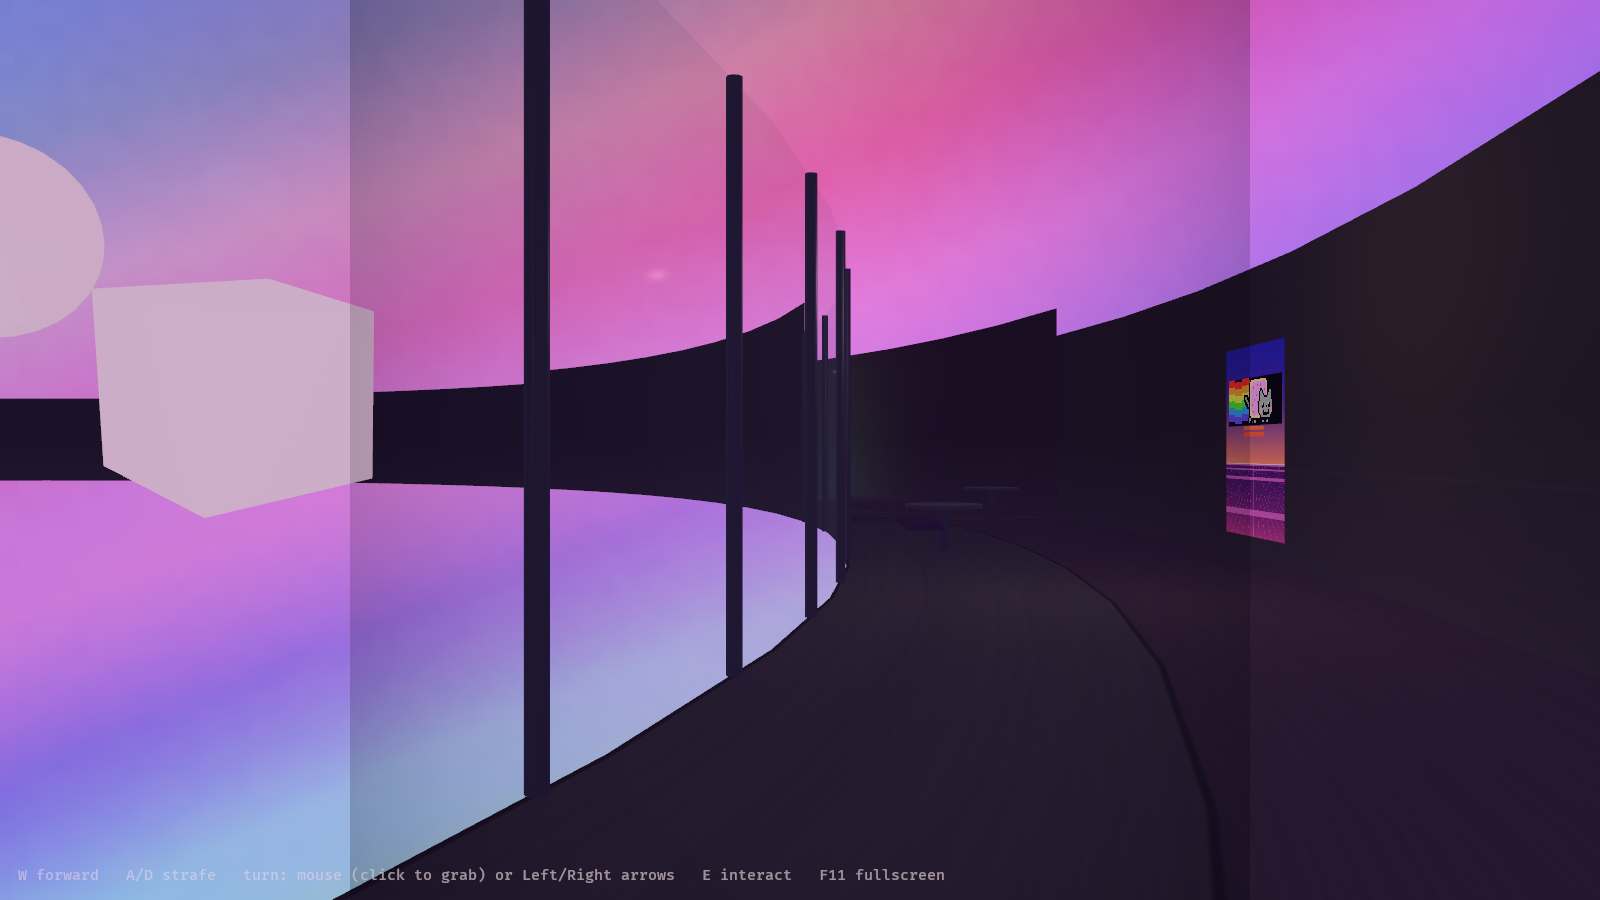
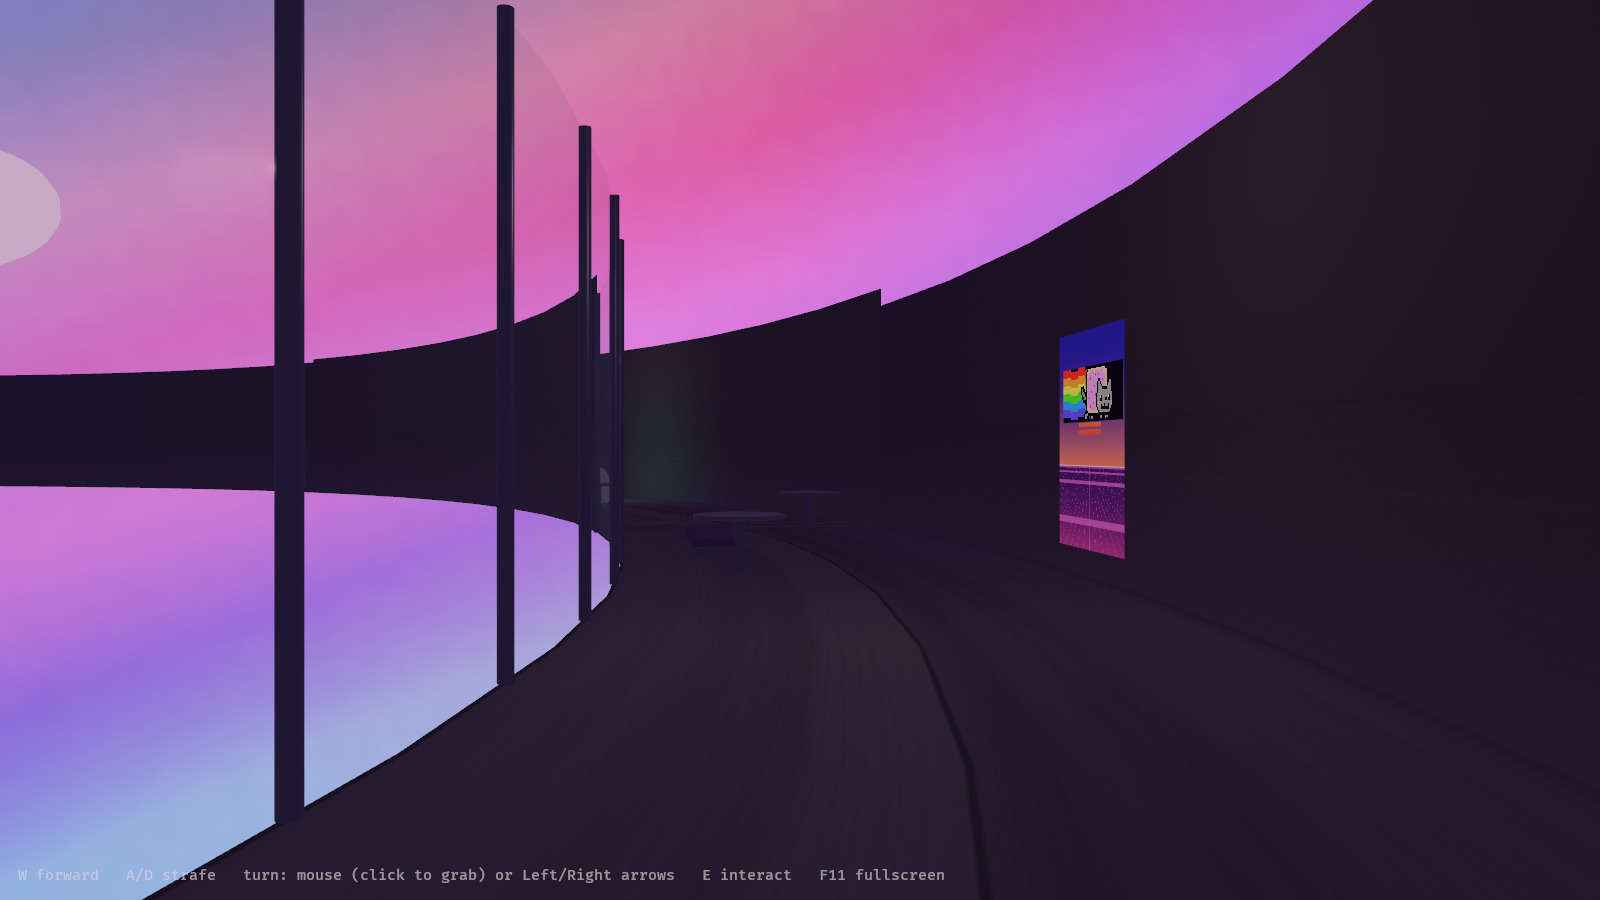
remove vignette overlay entirely
Matt still saw a 'black frame in the middle' after the aspect fix:
with corners flattened, the remaining ~17% edge-midpoint darkness of
the full-screen gradient overlay is exactly that frame. It was purely
decorative; fog and ambient already carry the mood. Deleted the
ImageNode overlay, its resize-fit system, and texturegen::vignette
with its tests. README screenshots retaken without it.

diff --git a/src/app.rs b/src/app.rs
@@ -439,11 +439,10 @@ fn setup_dream(
         seed,
         sky.as_deref(),
     );
-    spawn_ui_root(&mut commands, &mut images);
+    spawn_ui_root(&mut commands);
 }
 
-fn spawn_ui_root(commands: &mut Commands, images: &mut ResMut<Assets<Image>>) {
-    let vig = world::tex_rgba(images, 256, 256, texturegen::vignette(16.0 / 9.0), true);
+fn spawn_ui_root(commands: &mut Commands) {
     commands
         .spawn(Node {
             position_type: PositionType::Absolute,
@@ -453,21 +452,6 @@ fn spawn_ui_root(commands: &mut Commands, images: &mut ResMut<Assets<Image>>) {
         })
         .insert(Pickable::IGNORE)
         .with_children(|ui| {
-            // vignette overlay
-            ui.spawn((
-                ImageNode {
-                    image: vig,
-                    ..default()
-                },
-                VignetteNode,
-                Node {
-                    position_type: PositionType::Absolute,
-                    width: Val::Percent(100.0),
-                    height: Val::Percent(100.0),
-                    ..default()
-                },
-                FocusPolicy::Pass,
-            ));
             // black fade overlay
             ui.spawn((
                 Name::new("fade"),
@@ -549,30 +533,6 @@ fn spawn_ui_root(commands: &mut Commands, images: &mut ResMut<Assets<Image>>) {
         });
 }
 
-// keep the vignette circular on screen: regenerate its gradient texture
-// with the current window aspect whenever the window resizes, so no
-// elliptical iso-darkness arc can read as a panel edge in the FOV
-fn vignette_fit(
-    windows: Query<&Window, With<PrimaryWindow>>,
-    mut images: ResMut<Assets<Image>>,
-    mut vig: Query<&mut ImageNode, With<VignetteNode>>,
-    mut last: Local<f32>,
-) {
-    let Ok(win) = windows.single() else { return };
-    let h = win.height();
-    if h <= 1.0 {
-        return;
-    }
-    let aspect = win.width() / h;
-    if (aspect - *last).abs() < 0.01 {
-        return;
-    }
-    *last = aspect;
-    let tex = world::tex_rgba(&mut images, 256, 256, texturegen::vignette(aspect), true);
-    for mut node in &mut vig {
-        node.image = tex.clone();
-    }
-}
 
 /// build/rebuild the world when NewDream is pending
 fn build_pending(
@@ -1136,8 +1096,6 @@ fn fade_apply(run: Res<Run>, mut q: Query<&mut BackgroundColor, With<FadeNode>>)
 
 #[derive(Component)]
 struct FadeNode;
-#[derive(Component)]
-struct VignetteNode;
 
 // ---------------------------------------------------------------- mutation ----
 
@@ -1592,7 +1550,6 @@ pub fn build(app: &mut App) {
     app.add_systems(Update, cursor_ctrl.run_if(resource_exists::<Run>));
     app.add_systems(Update, fullscreen_toggle.run_if(resource_exists::<Run>));
     app.add_systems(Update, start_maximized.run_if(resource_exists::<Run>));
-    app.add_systems(Update, vignette_fit.run_if(resource_exists::<Run>));
     app.add_systems(OnEnter(GS::Ended), (capture_win2, spawn_ending_ui, clear_hud_on_end));
     // ending screen: Escape quits
     app.add_systems(Update, exit_on_escape.run_if(in_state(GS::Ended)));

diff --git a/src/texturegen.rs b/src/texturegen.rs
@@ -413,30 +413,6 @@ pub fn nyancat() -> Rgba {
     b
 }
 
-// ---- radial vignette: gentle darkening over the WHOLE frame ----
-// aspect-corrected so iso-darkness contours are CIRCLES on screen: a
-// circular texture stretched onto a 16:9 node produces elliptical arcs
-// that read as a panel edge floating in the FOV. ramp: 0% at center,
-// ~17% at edge midpoints, ~41% at corners (alpha = a * 110), no plateau.
-pub fn vignette(aspect: f32) -> Rgba {
-    let w = 256u32;
-    let h = 256u32;
-    let mut b = new_buf(w, h, [0, 0, 0, 0]);
-    let a = aspect.max(0.01);
-    // corner distance in this metric, so corners always land on ramp max
-    let max_d = (a * a + 1.0).sqrt();
-    for y in 0..h {
-        for x in 0..w {
-            let dx = (x as f32 - w as f32 / 2.0) / (w as f32 / 2.0) * a;
-            let dy = (y as f32 - h as f32 / 2.0) / (h as f32 / 2.0);
-            let d = ((dx * dx + dy * dy).sqrt() / max_d).min(1.0);
-            let t = d * d * (0.55 + 0.45 * d);
-            put(&mut b, w, x, y, [10, 4, 18, (t * 110.0) as u8]);
-        }
-    }
-    b
-}
-
 // ---- water: teal ripple ----
 pub fn water(seed: u64) -> Rgba {
     let w = 128u32;
@@ -578,7 +554,6 @@ mod tests {
         assert_eq!(sign_tex(1, "MOON MART").len(), 256 * 64 * 4);
         assert_eq!(brick(1).len(), 256 * 256 * 4);
         assert_eq!(nyancat().len(), 120 * 40 * 4);
-        assert_eq!(vignette(16.0 / 9.0).len(), 256 * 256 * 4);
         assert_eq!(water(1).len(), 128 * 128 * 4);
     }
 
@@ -613,23 +588,6 @@ mod tests {
             top += lum(x, 0);
         }
         assert!(bot > top * 4, "vortex {bot} vs zenith {top}");
-    }
-
-    #[test]
-    fn vignette_circular_on_screen() {
-        // stretched to a 1600x900 window, two texels whose screen-space
-        // offsets from center have equal pixel distance must share alpha;
-        // iso-alpha ellipses are what read as a floating panel edge
-        let b = vignette(16.0 / 9.0);
-        let a = |x: u32, y: u32| -> i32 {
-            b[((y * 256 + x) * 4 + 3) as usize] as i32
-        };
-        // r=300px along -x, and r=300px along the +45 deg diagonal
-        let ax = a(80, 128); // screen (-300, 0)
-        let bx = a(162, 188); // screen (+212, +212)
-        assert!((ax - bx).abs() <= 2, "iso-radius alphas differ: {ax} vs {bx}");
-        assert_eq!(a(128, 128), 0, "center must be clear");
-        assert!(a(0, 0) >= 105, "corner must reach ramp max, got {}", a(0, 0));
     }
 
 }

diff --git a/src/bin/simcheck.rs b/src/bin/simcheck.rs
@@ -55,14 +55,13 @@ fn main() {
     }));
 
     // ---- textures ----
-    let tex: [(&str, texturegen::Rgba); 8] = [
+    let tex: [(&str, texturegen::Rgba); 7] = [
         ("floor_tile", texturegen::floor_tile(1)),
         ("wall_tile", texturegen::wall_tile(1, 0.1)),
         ("ceil_tile", texturegen::ceil_tile(1)),
         ("sunset", texturegen::sunset(1)),
         ("brick", texturegen::brick(1)),
         ("nyancat", texturegen::nyancat()),
-        ("vignette", texturegen::vignette(16.0 / 9.0)),
         ("water", texturegen::water(1)),
     ];
     for (name, buf) in &tex {

diff --git a/AGENT-NOTES.md b/AGENT-NOTES.md
@@ -30,6 +30,13 @@
   away from fountains -> must NOT sink through the one-way floor (was the
   "void everywhere" screenshot bug: camera under the single-sided floor);
   dive directly over a fountain -> still wins Water.
+- The UI vignette overlay is REMOVED entirely (was a full-screen
+  ImageNode gradient). Matt kept reading its residual edge darkness as a
+  "black frame in the middle" even after the aspect-correction fix;
+  with the corners flattened, the remaining ~17% edge-midpoint alpha is
+  exactly that frame. Fog + ambient already carry the mood, so the
+  overlay is dead weight. `texturegen::vignette` deleted with it;
+  README screenshots retaken without it.
 
 ## Debug env hooks (stripped before shipping)
 - `DREAMMALL_SPAWN=x,z`, `DREAMMALL_PASS=1`, `DREAMMALL_SHOT=path:secs`
